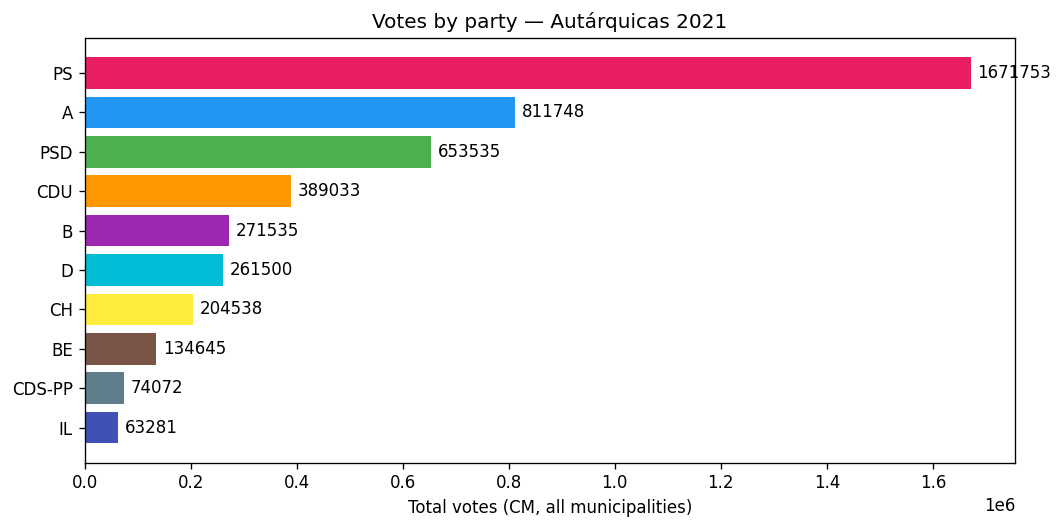
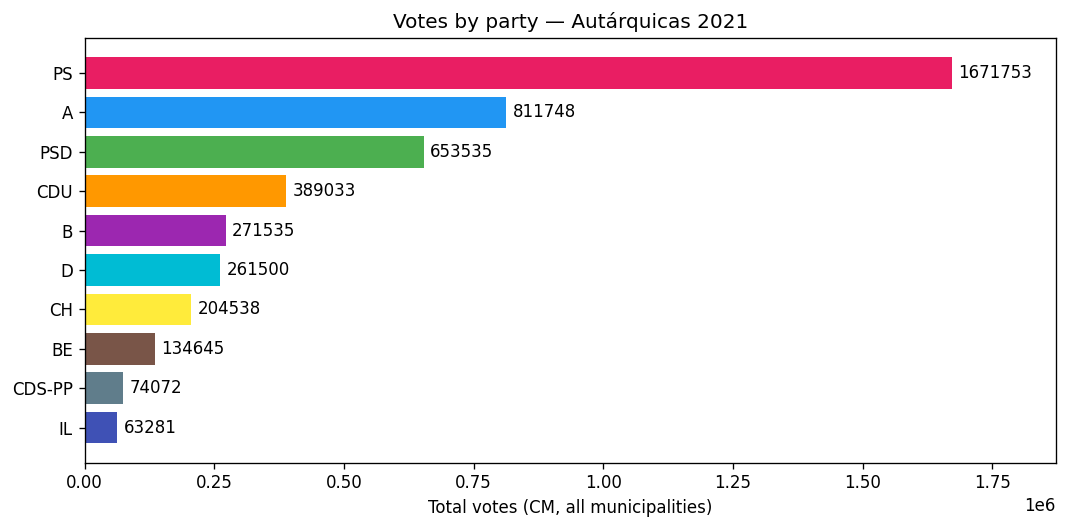
chart data problem bugfix

diff --git a/app/templates/analytics.html b/app/templates/analytics.html
@@ -280,8 +280,14 @@
     // Fetch party comparison data (single election — navbar selection)
     const electionId = {{ current_election_id or 'null' }};
     fetch('/api/charts/party_comparison?election_id=' + electionId)
-        .then(response => response.json())
+        .then(response => {
+            if (!response.ok) {
+                throw new Error('party_comparison HTTP ' + response.status);
+            }
+            return response.json();
+        })
         .then(data => {
+            if (!data.parties || data.parties.length === 0) return;
             createCharts(data);
         })
         .catch(error => console.error('Error loading chart data:', error));

diff --git a/app/charts.py b/app/charts.py
@@ -18,7 +18,8 @@ ORGAN_CM_SUBQUERY = (
     "SELECT organ_id FROM operational.electoral_organ WHERE organ_code = 'CM'"
 )
 
-PARTY_COMPARISON_SQL = f"""
+def _party_comparison_sql(order_by: str, having_clause: str, limit: int) -> str:
+    return f"""
     SELECT COALESCE(p.party_acronym, co.coalition_acronym) AS party,
            SUM(vr.votes_obtained) AS total_votes,
            SUM(COALESCE(sr.seats_obtained, 0)) AS total_seats,
@@ -30,10 +31,22 @@ PARTY_COMPARISON_SQL = f"""
     LEFT JOIN operational.seat_result sr ON c.candidacy_id = sr.candidacy_id
     WHERE c.election_id = %s AND c.organ_id = ({ORGAN_CM_SUBQUERY})
     GROUP BY COALESCE(p.party_acronym, co.coalition_acronym)
-    HAVING SUM(vr.votes_obtained) > 1000
-    ORDER BY total_votes DESC
-    LIMIT 10
-"""
+    {having_clause}
+    ORDER BY {order_by} DESC
+    LIMIT {limit}
+    """
+
+
+PARTY_VOTES_SQL = _party_comparison_sql(
+    "total_votes",
+    "HAVING SUM(vr.votes_obtained) > 1000",
+    10,
+)
+PARTY_SEATS_SQL = _party_comparison_sql(
+    "total_seats",
+    "HAVING SUM(COALESCE(sr.seats_obtained, 0)) > 0",
+    12,
+)
 
 
 PARTY_COLORS = [
@@ -53,15 +66,17 @@ PARTY_COLORS = [
 def fetch_party_comparison_rows(
     db_config: Dict[str, str],
     election_id: int,
+    metric: str = "votes",
 ) -> List[Dict[str, Any]]:
     import psycopg2
     import psycopg2.extras
 
+    sql = PARTY_SEATS_SQL if metric == "seats" else PARTY_VOTES_SQL
     conn = psycopg2.connect(**db_config)
     try:
         with conn.cursor(cursor_factory=psycopg2.extras.RealDictCursor) as cur:
             cur.execute("SET search_path TO operational, public")
-            cur.execute(PARTY_COMPARISON_SQL, (election_id,))
+            cur.execute(sql, (election_id,))
             return [dict(row) for row in cur.fetchall()]
     finally:
         conn.close()
@@ -95,29 +110,43 @@ def render_party_bar_chart(
     if metric not in ("votes", "seats"):
         metric = "votes"
 
+    if metric == "seats":
+        values_key = "total_seats"
+        xlabel = "Total seats (CM, all municipalities)"
+        title_metric = "Seats by party"
+        empty_msg = (
+            "No seat data in database.\n"
+            "Run: python scripts/load_seats.py --dataset aut_2021"
+        )
+    else:
+        values_key = "total_votes"
+        xlabel = "Total votes (CM, all municipalities)"
+        title_metric = "Votes by party"
+        empty_msg = "No vote data for this election."
+
     if not rows:
         fig, ax = plt.subplots(figsize=(8, 4))
-        ax.text(0.5, 0.5, "No data", ha="center", va="center")
+        ax.text(0.5, 0.5, empty_msg, ha="center", va="center", fontsize=10)
         ax.axis("off")
     else:
         parties = [str(r["party"]) for r in rows]
-        if metric == "seats":
-            values = [int(r["total_seats"]) for r in rows]
-            xlabel = "Total seats (CM, all municipalities)"
-            title_metric = "Seats by party"
-        else:
-            values = [int(r["total_votes"]) for r in rows]
-            xlabel = "Total votes (CM, all municipalities)"
-            title_metric = "Votes by party"
+        values = [int(r[values_key] or 0) for r in rows]
 
-        colors = PARTY_COLORS[: len(parties)]
-        fig, ax = plt.subplots(figsize=(9, max(4, len(parties) * 0.45)))
-        bars = ax.barh(parties[::-1], values[::-1], color=colors[::-1])
-        ax.set_xlabel(xlabel)
-        year_suffix = f" — Autárquicas {election_year}" if election_year else ""
-        ax.set_title(f"{title_metric}{year_suffix}")
-        ax.bar_label(bars, padding=4, fmt="%d")
-        fig.tight_layout()
+        if max(values) == 0:
+            fig, ax = plt.subplots(figsize=(8, 4))
+            ax.text(0.5, 0.5, empty_msg, ha="center", va="center", fontsize=10)
+            ax.axis("off")
+        else:
+            colors = PARTY_COLORS[: len(parties)]
+            fig, ax = plt.subplots(figsize=(9, max(4, len(parties) * 0.45)))
+            bars = ax.barh(parties[::-1], values[::-1], color=colors[::-1])
+            ax.set_xlabel(xlabel)
+            year_suffix = f" — Autárquicas {election_year}" if election_year else ""
+            ax.set_title(f"{title_metric}{year_suffix}")
+            xmax = max(values)
+            ax.set_xlim(0, xmax * 1.12 if xmax > 0 else 1)
+            ax.bar_label(bars, padding=4, fmt="%d")
+            fig.tight_layout()
 
     buf = io.BytesIO()
     fig.savefig(buf, format="png", dpi=120, bbox_inches="tight")

diff --git a/scripts/load_seats.py b/scripts/load_seats.py
@@ -1,0 +1,53 @@
+"""
+Load operational.seat_result from CNE mapa_2 (no full ETL).
+
+Usage (repo root):
+  .\\.venv\\Scripts\\python.exe scripts\\load_seats.py --dataset aut_2021
+  .\\.venv\\Scripts\\python.exe scripts\\load_seats.py --dataset aut_2017
+"""
+
+from __future__ import annotations
+
+import argparse
+import logging
+import sys
+from pathlib import Path
+
+ROOT = Path(__file__).resolve().parents[1]
+sys.path.insert(0, str(ROOT / "etl"))
+
+from config import DATASETS  # noqa: E402
+from pipeline.db import connect  # noqa: E402
+from pipeline.load_seats import run_load_seat_results  # noqa: E402
+from pipeline.runner import setup_logging  # noqa: E402
+
+
+def main() -> int:
+    parser = argparse.ArgumentParser(description="Load seat_result from CNE mapa_2")
+    parser.add_argument(
+        "--dataset",
+        choices=sorted(DATASETS.keys()),
+        default="aut_2021",
+        help="Dataset key (must match loaded election in operational)",
+    )
+    args = parser.parse_args()
+    setup_logging()
+    conn = connect()
+    try:
+        stats = run_load_seat_results(conn, args.dataset)
+        print(stats)
+        total = stats.get("seat_result_total", 0)
+        if total == 0:
+            print(
+                "WARNING: no seat_result rows — check mapa_2 file under etl/data/ "
+                f"for {args.dataset}",
+                file=sys.stderr,
+            )
+            return 1
+        return 0
+    finally:
+        conn.close()
+
+
+if __name__ == "__main__":
+    raise SystemExit(main())

diff --git a/app/app.py b/app/app.py
@@ -532,7 +532,7 @@ def analytics_chart_png():
         return 'No election selected', 404
 
     metric = request.args.get('metric', 'votes')
-    rows = fetch_party_comparison_rows(DB_CONFIG, election_id)
+    rows = fetch_party_comparison_rows(DB_CONFIG, election_id, metric=metric)
     year = fetch_election_year(DB_CONFIG, election_id)
     png = render_party_bar_chart(rows, metric=metric, election_year=year)
     return send_file(
@@ -546,13 +546,22 @@ def analytics_chart_png():
 @app.route('/api/charts/party_comparison')
 def api_charts_party_comparison():
     election_id = resolve_election_id()
-    results = fetch_party_comparison_rows(DB_CONFIG, election_id)
+    vote_rows = fetch_party_comparison_rows(DB_CONFIG, election_id, metric='votes')
+    seat_rows = fetch_party_comparison_rows(DB_CONFIG, election_id, metric='seats')
+    # Align Chart.js series: seats by party name from vote ranking, fallback 0
+    seats_by_party = {r['party']: int(r['total_seats']) for r in seat_rows}
 
     return jsonify({
-        'parties': [r['party'] for r in results],
-        'votes': [int(r['total_votes']) for r in results],
-        'seats': [int(r['total_seats']) for r in results],
-        'percentages': [float(r['avg_percentage']) if r['avg_percentage'] else 0 for r in results],
+        'parties': [r['party'] for r in vote_rows],
+        'votes': [int(r['total_votes']) for r in vote_rows],
+        'seats': [seats_by_party.get(r['party'], 0) for r in vote_rows],
+        'seats_by_party': [
+            {'party': r['party'], 'seats': int(r['total_seats'])}
+            for r in seat_rows
+        ],
+        'percentages': [
+            float(r['avg_percentage']) if r['avg_percentage'] else 0 for r in vote_rows
+        ],
     })
 
 

diff --git a/etl/pipeline/db.py b/etl/pipeline/db.py
@@ -18,6 +18,11 @@ def connect():
             password=DB_CONFIG['password'],
         )
         conn.set_client_encoding('UTF8')
+        with conn.cursor() as cur:
+            cur.execute(
+                'SET search_path TO staging, operational, warehouse, public'
+            )
+        conn.commit()
         return conn
     except Exception as exc:
         logging.error('Database connection failed: %s', exc)

diff --git a/scripts/export_charts.py b/scripts/export_charts.py
@@ -56,8 +56,6 @@ def main() -> int:
 
     election_id = args.election_id or resolve_default_election_id()
     year = fetch_election_year(DB_CONFIG, election_id)
-    rows = fetch_party_comparison_rows(DB_CONFIG, election_id)
-
     OUT_DIR.mkdir(parents=True, exist_ok=True)
 
     exports = [
@@ -65,6 +63,7 @@ def main() -> int:
         ("matplotlib_analytics_seats.png", "seats"),
     ]
     for filename, metric in exports:
+        rows = fetch_party_comparison_rows(DB_CONFIG, election_id, metric=metric)
         png = render_party_bar_chart(rows, metric=metric, election_year=year)
         dest = OUT_DIR / filename
         write_chart_png(str(dest), png)

diff --git a/README.md b/README.md
@@ -176,6 +176,7 @@ Functions, PL/pgSQL, and triggers in `sql/03_functions_triggers.sql` (e.g. D'Hon
 - ~50 municipalities in CNE mapa_2 may be absent from mapa_1 ETL (no votes / seats in DB).  
 - CAOP fallback GeoJSON covers **continent**; islands may lack geometry until official shapefiles are added.  
 - If turnout shows **0% / N/A** after an older ETL run: `python scripts/fix_turnout_percentages.py` (or re-run `run_etl.py --mode reload-operational`). Bulk load skips triggers, so percentages must be computed explicitly.  
+- If **seats charts are empty**: load CNE mapa_2 into `seat_result` — `python scripts/load_seats.py --dataset aut_2021` (after operational votes exist).  
 - No authentication; batch ETL only (not live election night).  
 
 Details and future tasks: **[todo.md](todo.md)**.